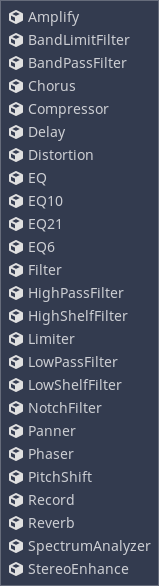
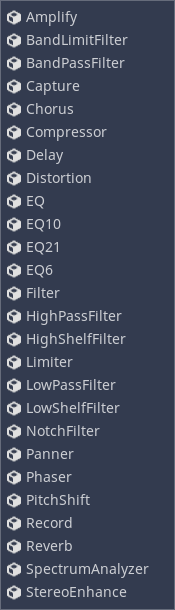
Add Capture effect to audio buses page (4.0)

Changed region(s): [[0.0252, 0.0, 0.9308, 0.9829]]

diff --git a/tutorials/audio/audio_buses.rst b/tutorials/audio/audio_buses.rst
@@ -110,6 +110,11 @@ megaphone. Modulating the BandPass frequency can simulate the sound of a wah-wah
 guitar pedal, think of the guitar in Jimi Hendrix's *Voodoo Child (Slight
 Return)*.
 
+Capture
+~~~~~~~
+
+Capture allows access to the microphone and other audio on an audio bus in real-time.
+
 Chorus
 ~~~~~~
 
